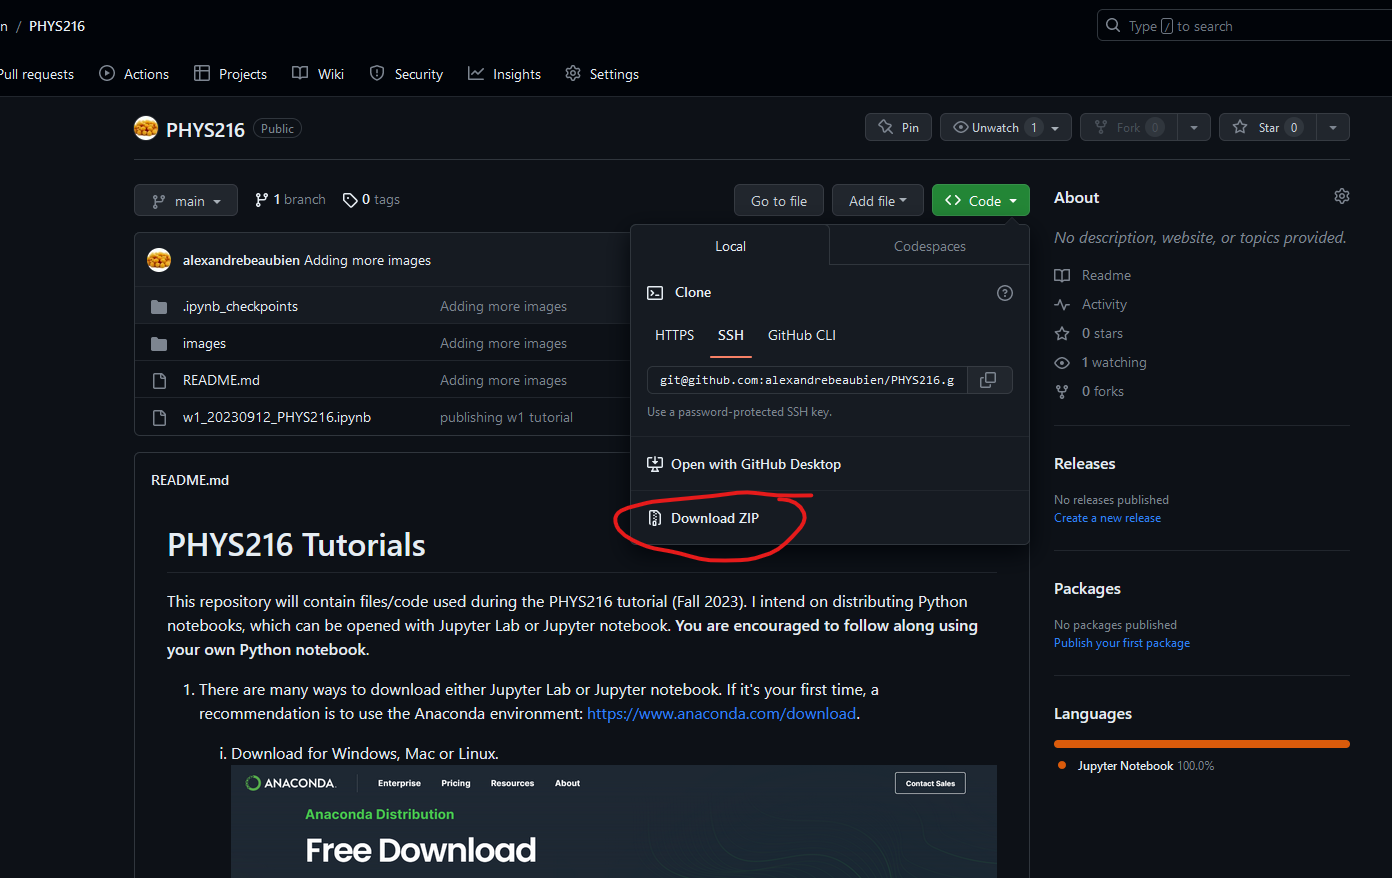
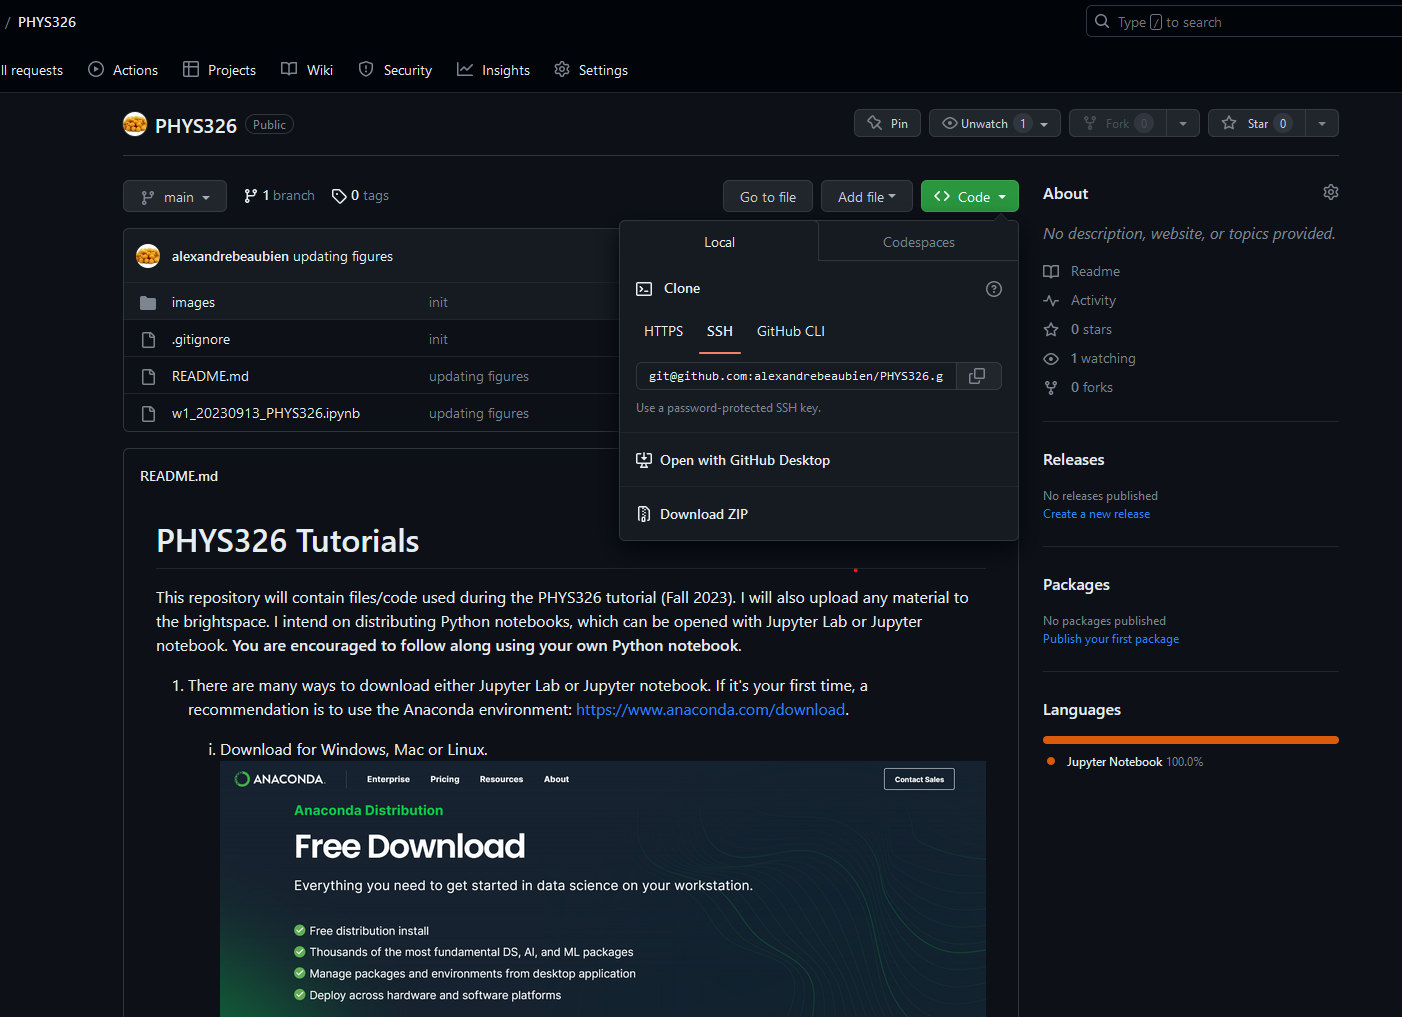
Fixed wrong link and wrong image

diff --git a/README.md b/README.md
@@ -8,7 +8,7 @@ This repository will contain files/code used during the PHYS326 tutorial (Fall 2
     2. Once downloaded, install Jupyter Lab from the Anaconda Navigator.
         ![Download](images/Open_jupyter.png)
 
-2. Once you have a Jupyter environment (or if you already have/know how to use a Jupyter environment), you can download the scripts directly from this github: https://github.com/alexandrebeaubien/PHYS216.
+2. Once you have a Jupyter environment (or if you already have/know how to use a Jupyter environment), you can download the scripts directly from this github: https://github.com/alexandrebeaubien/PHYS326.
 
 ![Download from GitHub](images/Where_download_code.png)
 
